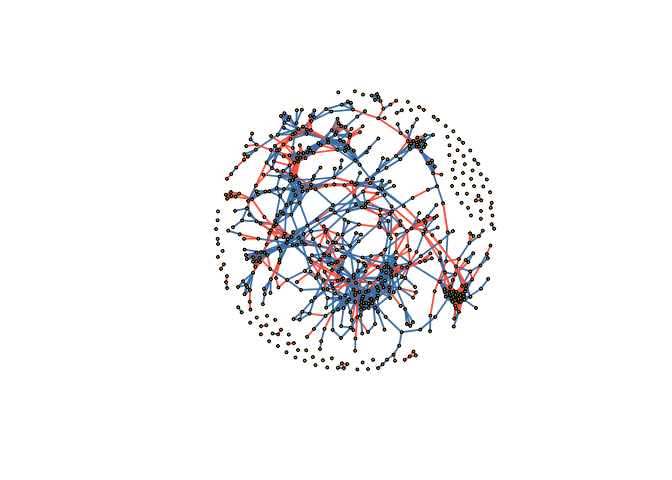
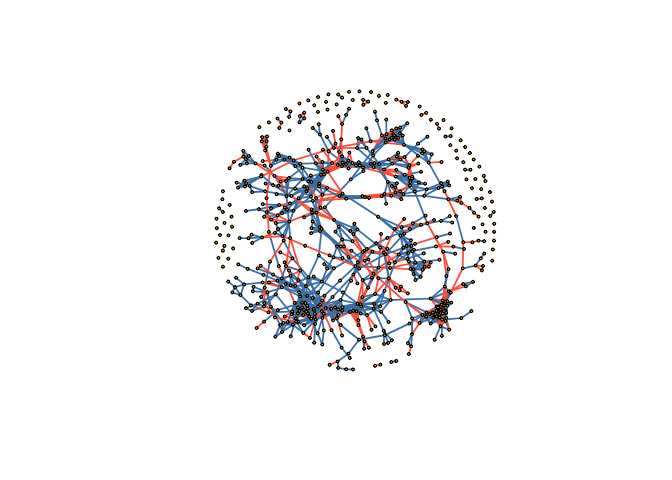
quotes around modality name

Changed region(s): [[0.3125, 0.1875, 0.75, 0.7812]]

diff --git a/README.md b/README.md
@@ -411,7 +411,7 @@ pheatmap(lipid_v_prot,
 ### Correlation network
 
 Thresholding a correlation matrix gives a co-response network: nodes are
-features, edges join strongly correlated pairs (blue = positive, red =
+features, edges join strongly correlated pairs (blue = positive; red =
 negative).
 
 ``` r